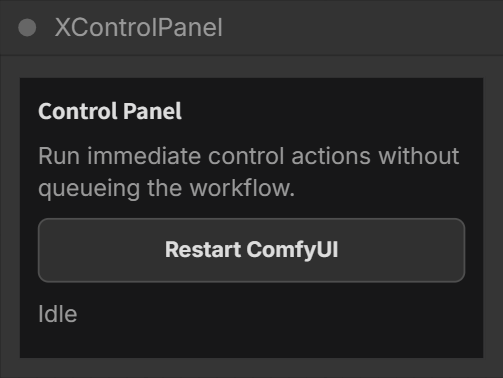
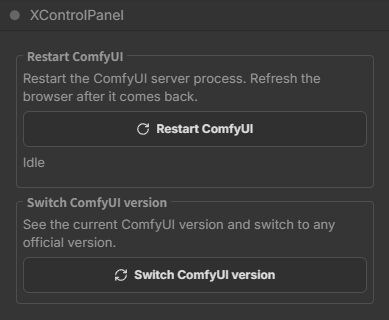
更新

diff --git a/web/xcontrolpanel_extension.js b/web/xcontrolpanel_extension.js
@@ -10,7 +10,7 @@ var COMFY_LOCALE_KEY = "Comfy.Locale";
 var LOCALE_SYNC_INTERVAL = 1000;
 var UPDATE_POLL_INTERVAL_MS = 1000;
 var MIN_NODE_W = 390;
-var MIN_NODE_H = 250;
+var MIN_NODE_H = 290;  // 最小/默认加载高度：面板内容较多，需保证不截断
 var STYLE_ID = "xcontrolpanel-styles";
 var uiLocalePrimary = null;
 var uiLocaleFallback = null;
